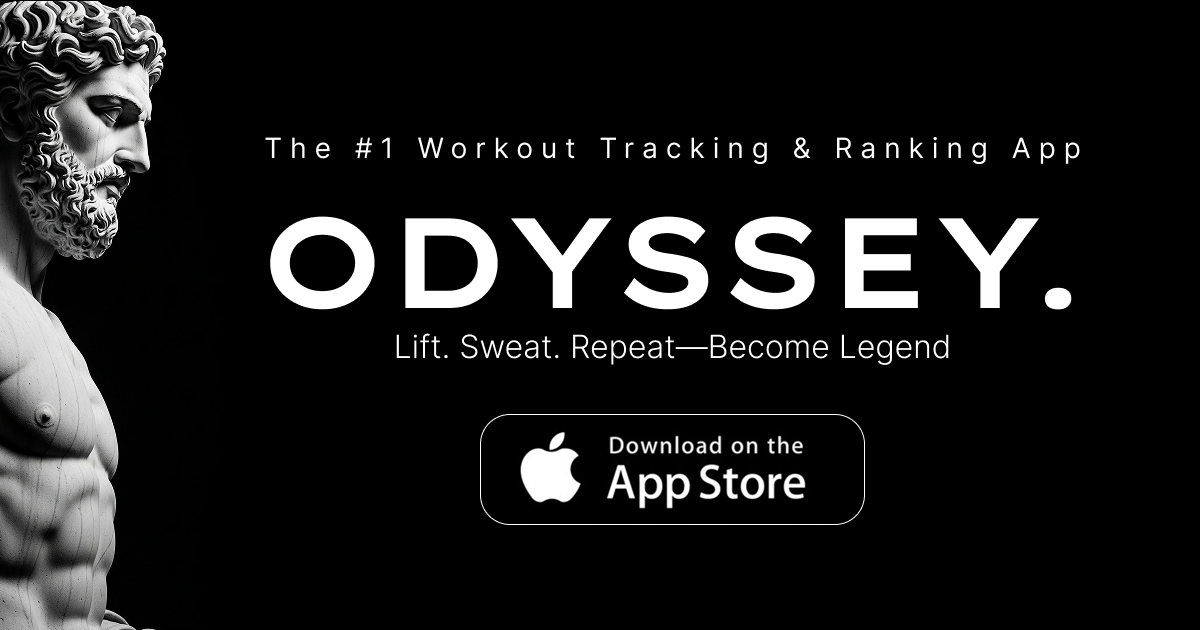
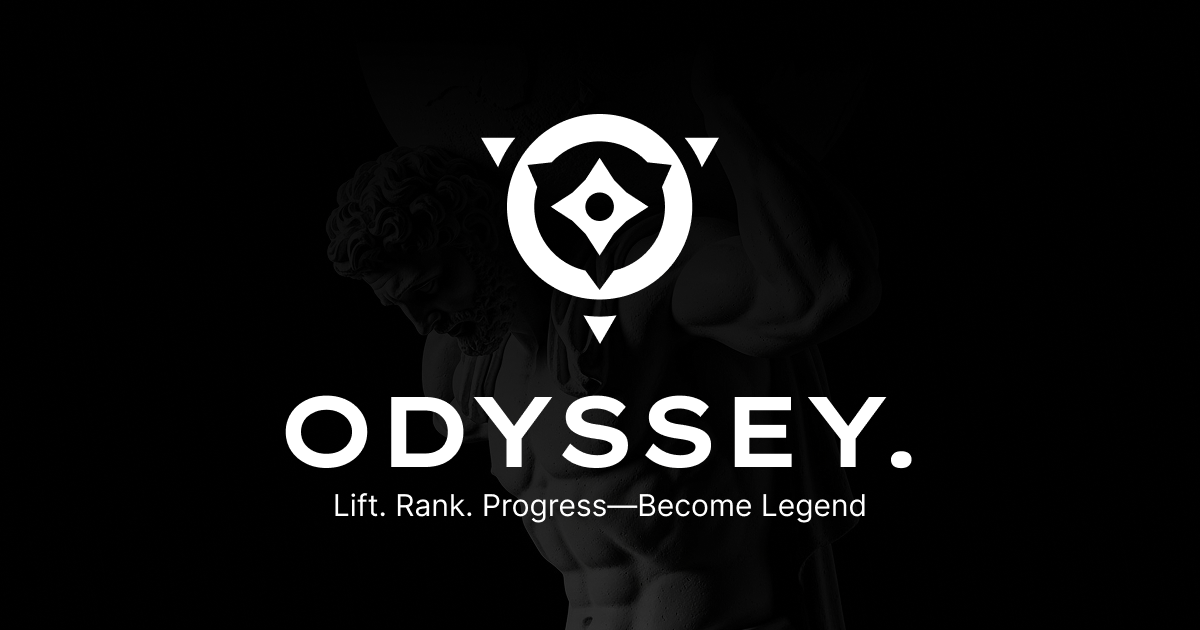
fixed og img + get app button

diff --git a/src/components/GetAppButton.tsx b/src/components/GetAppButton.tsx
@@ -1,0 +1,57 @@
+const getMobileOperatingSystem = () => {
+  const userAgent = navigator.userAgent || navigator.vendor || (window as any).opera;
+
+  // Windows Phone must come first because its user agent also contains "Android"
+  if (/windows phone/i.test(userAgent)) {
+    return "Windows Phone";
+  }
+
+  if (/android/i.test(userAgent)) {
+    return "Android";
+  }
+
+  // iOS detection from userAgent includes iPhone, iPad, and iPod
+  if (/iPad|iPhone|iPod/.test(userAgent) && !(window as any).MSStream) {
+    return "iOS";
+  }
+
+  return "unknown";
+};
+
+const GetAppButton = () => {
+  const handleGetAppClick = () => {
+    const os = getMobileOperatingSystem();
+
+    if (os === "iOS") {
+      window.location.href = import.meta.env.VITE_APP_STORE_URL;
+    } else if (os === "Android") {
+      window.location.href = import.meta.env.VITE_PLAY_STORE_URL;
+    } else {
+      const storeButtons = document.getElementById("store-buttons");
+      if (storeButtons) {
+        storeButtons.scrollIntoView({ behavior: "smooth", block: "center" });
+
+        const shake = (count: number) => {
+          if (count === 0) return;
+          storeButtons.classList.add("animate-shake");
+          setTimeout(() => {
+            storeButtons.classList.remove("animate-shake");
+            setTimeout(() => shake(count - 1), 500);
+          }, 1500);
+        };
+
+        shake(3);
+      }
+    }
+  };
+
+  return (
+    <button
+      onClick={handleGetAppClick}
+      className="bg-white text-black text-sm md:text-md lg:text-lg font-bold py-2 px-8 rounded-full">
+      Get App
+    </button>
+  );
+};
+
+export default GetAppButton;

diff --git a/src/pages/Home.tsx b/src/pages/Home.tsx
@@ -4,6 +4,7 @@ import Testimonial from "../components/Testimonial";
 import HeaderQuote from "../components/HeaderQuote";
 import PhoneScreenHeader from "../components/PhoneScreenHeader";
 import StoreButtons from "../components/StoreButtons";
+import GetAppButton from "../components/GetAppButton";
 import ResponsiveBackgroundImage from "../components/ResponsiveBackgroundImage";
 
 import { useMediaQuery } from "react-responsive";
@@ -21,11 +22,7 @@ const Header = () => {
         <img src="/icon.png" alt="Odyssey Logo" className="h-8 w-auto" />
         <span className="font-bold text-xl tracking-wider font-lexend-mega">ODYSSEY.</span>
       </div>
-      <button
-        onClick={handleGetAppClick}
-        className="bg-white text-black text-sm md:text-md lg:text-lg font-bold py-2 px-8 rounded-full">
-        Get App
-      </button>
+      <GetAppButton />
     </header>
   );
 };

diff --git a/src/components/StoreButtons.tsx b/src/components/StoreButtons.tsx
@@ -1,10 +1,12 @@
 import { usePostHog } from "posthog-js/react";
 
-export default function StoreButtons() {
+export default function StoreButtons({ className }: { className?: string }) {
   const posthog = usePostHog();
 
   return (
-    <div className="flex flex-row justify-center md:justify-start gap-4 my-6 w-full max-w-sm mx-auto md:mx-0">
+    <div
+      id="store-buttons"
+      className={`flex flex-row justify-center md:justify-start gap-4 my-6 w-full max-w-sm mx-auto md:mx-0 ${className}`}>
       <a
         href={import.meta.env.VITE_APP_STORE_URL}
         target="_blank"

diff --git a/src/globals.css b/src/globals.css
@@ -36,6 +36,30 @@ body {
   animation: fadeIn 1s ease-in-out;
 }
 
+@keyframes shake {
+  10%,
+  90% {
+    transform: translate3d(-1px, 0, 0);
+  }
+  20%,
+  80% {
+    transform: translate3d(2px, 0, 0);
+  }
+  30%,
+  50%,
+  70% {
+    transform: translate3d(-4px, 0, 0);
+  }
+  40%,
+  60% {
+    transform: translate3d(4px, 0, 0);
+  }
+}
+
+.animate-shake {
+  animation: shake 1.5s cubic-bezier(0.36, 0.07, 0.19, 0.97);
+}
+
 #root {
   transition: opacity 0.5s ease-in-out;
 }
